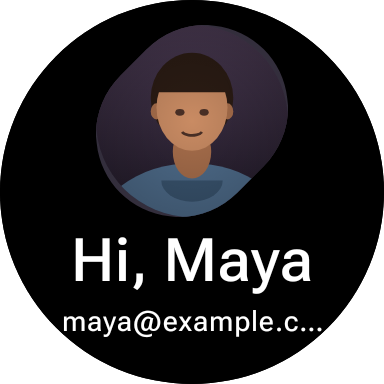
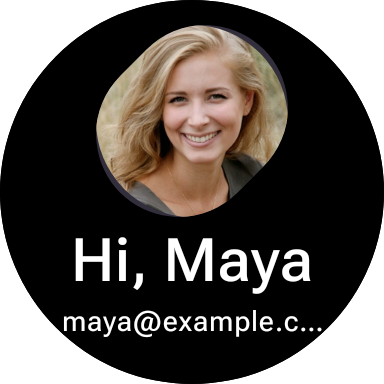
feat: seed the auth accounts with real CC0 photographs
The avatars were drawn: first a gradient, then a generated portrait.
Both answer where the avatar sits and how big it is, and neither answers
the question a reader actually has at `ButtonDefaults.LargeIconSize` —
whether a PHOTOGRAPH survives the slot. Only a photograph answers that.

Two 256x256 crops from cjdowner/interfaces, a pack of 100 avatar images
assembled from community stock photography and released under CC0 1.0:
free for commercial use, modifiable, redistributable, attribution not
required. Given anyway — `docs/THIRD_PARTY_IMAGES.md` records both files,
their source and the originals, so a contributor who finds photographs of
strangers in a design repository can see where they came from.

Chosen to stay distinguishable at 32dp — one light, high-key frame
against one dark, low-key one. Two portraits that resolve to the same
grey blur in the row would fail the account list's whole job while
looking fine in review.

This reverses `CatalogImage`'s "drawn rather than shipped" argument for
exactly one slot, and its KDoc now says so. That argument holds for a
placeholder, where a gradient loses nothing; it does not hold for a human
face, and a CC0 pack settles the licence question in a committed file
rather than leaving it open.

The circular crop stays at the call site, for the reason it was there
before: `SelectAccountScreen` applies no clip (#435), a photograph is a
rectangle, and `Paintable` returns any `Painter` — so `CatalogAvatar`
[…]

Changed region(s): [[0.25, 0.0625, 0.75, 0.5625]]

diff --git a/catalog/src/main/kotlin/ee/schimke/wearm3catalog/CatalogAvatar.kt b/catalog/src/main/kotlin/ee/schimke/wearm3catalog/CatalogAvatar.kt
@@ -1,172 +1,101 @@
 package ee.schimke.wearm3catalog
 
+import androidx.compose.runtime.Composable
+import androidx.compose.runtime.remember
 import androidx.compose.ui.geometry.Offset
 import androidx.compose.ui.geometry.Rect
 import androidx.compose.ui.geometry.Size
-import androidx.compose.ui.graphics.Brush
-import androidx.compose.ui.graphics.Color
 import androidx.compose.ui.graphics.Path
 import androidx.compose.ui.graphics.drawscope.DrawScope
 import androidx.compose.ui.graphics.drawscope.clipPath
+import androidx.compose.ui.graphics.drawscope.translate
 import androidx.compose.ui.graphics.painter.Painter
+import androidx.compose.ui.res.painterResource
+import com.google.android.horologist.images.base.paintable.Paintable
 
 /**
- * A portrait stand-in for the slots that hold a person's photo — the account avatar.
+ * The account photographs the sign-in surfaces seed from.
  *
  * [CatalogArtwork] is the stand-in for *imagery*, and it is a gradient, which is honest for album
- * art and for the kit's app glyph. It is not honest for an avatar: an account row's leading slot
- * holds a FACE, and a reader looking at `Auth/SelectAccountScreen` has to be able to tell whether
- * the component sized, placed and shaped one. A rectangle of colour answers the first two questions
- * and not the third.
+ * art and for the kit's app glyph. It is not honest here: an account row's leading slot holds a
+ * FACE, and a reader looking at `Auth/SelectAccountScreen` has to be able to tell whether the
+ * component sized, placed and shaped one. A rectangle of colour answers the first two questions and
+ * not the third, and a drawn figure answers the third only approximately — at
+ * `ButtonDefaults.LargeIconSize` the question is whether a *photograph* survives the slot, which
+ * only a photograph can answer.
  *
- * ## Drawn, not shipped, and not a photograph
+ * ## Why these two, and what licence they carry
  *
- * This is a **representational drawing** — head, shoulders, hair, a collar — rather than a
- * photograph, and it does not pretend otherwise at any size. Three reasons it is generated here
- * instead of committed as an asset, in descending order of how much they would cost:
- * 1. A committed photograph of a person is a licence question AND a likeness question in front of
- *    every contributor, on a repository whose delivery branch republishes every render nightly.
- * 2. It weighs nothing and renders identically on every publish, which is the same determinism
- *    argument [CatalogImage] makes: a catalog whose history is diffed cannot afford a byte to move
- *    for a reason nobody intended.
- * 3. It scales. The account row draws it at `ButtonDefaults.LargeIconSize` and the confirmation
- *    dialog at 96dp; both come out of the same numbers because every coordinate below is a fraction
- *    of the frame, not a pixel.
+ * Both are real photographs from [inter-faces](https://github.com/cjdowner/interfaces), a pack of
+ * 100 avatar crops assembled from community stock photography and released under
+ * [CC0 1.0](https://creativecommons.org/publicdomain/zero/1.0/) — free for commercial use,
+ * modifiable, redistributable, **attribution not required**. Credited anyway, because a contributor
+ * who finds two photographs of strangers in a design repository deserves to be told where they came
+ * from without having to ask: see
+ * [`docs/THIRD_PARTY_IMAGES.md`](../../../../../../../docs/THIRD_PARTY_IMAGES.md).
  *
- * ## It clips itself, and that is the point
+ * This deliberately reverses the "drawn rather than shipped" reasoning on [CatalogImage], which
+ * argued that a committed photograph puts a licence question in front of every contributor. That
+ * argument holds for a *placeholder*, where a gradient loses nothing. It does not hold for the one
+ * slot whose whole subject is a human face — and a CC0 pack answers the licence question in the
+ * file that records it rather than leaving it open. The two are 256x256 JPEGs, ~45 KB each.
  *
- * Everything is drawn inside a circular clip, so the painter hands the component an image that is
- * **already masked** — which is exactly what a real app does, and exactly what Horologist's own
- * previews and screenshot tests do (their `horologist_avatar_small_*.png` fixtures are pre-rounded
- * PNGs; all four corners decode to `(0, 0, 0, 0)`).
+ * They are chosen to be **distinguishable at 32dp**: a light, high-key frame against a dark,
+ * low-key one. Telling two accounts apart is the account row's entire job, and two portraits that
+ * resolve to the same grey blur at `LargeIconSize` would fail it while looking fine in review.
  *
- * That matters because `SelectAccountScreen` applies no clip of its own
- * ([#435](https://github.com/yschimke/wear-m3-catalog/issues/435)), so an unmasked rectangle lands
- * square in the account row. Masking here is not covering for the library: it is the call site
- * doing what every call site has to do today, and the catalog publishing what an app would actually
- * see. The library's missing clip is reported upstream rather than drawn.
+ * ## The circular crop, and why it belongs here
  *
- * @param background the two-stop ground behind the subject, top to bottom.
- * @param skin the lit side of the face.
- * @param skinShadow the neck and ears, which sit behind the plane of the face.
- * @param hair drawn twice — once behind the head, once as a fringe across the forehead.
- * @param shirt the shoulders, which the circle crops into a band along the bottom.
- * @param shirtShadow the collar's opening under the neck.
- * @param feature eyes and mouth. Deliberately low-contrast: at `LargeIconSize` these are about a
- *   pixel each, and a hard black reads as speckle rather than as a face.
+ * `SelectAccountScreen` draws the account's `avatar` through a bare `Image` with no `clip`, so an
+ * unmasked rectangle — which is exactly what a photograph is, and what a `CoilPaintable` hands it
+ * in production — lands SQUARE in the account row. That is a library gap, reported at
+ * [#435](https://github.com/yschimke/wear-m3-catalog/issues/435).
+ *
+ * What the API gives a caller is the PIXELS: `Paintable` returns any `Painter`, so the mask goes on
+ * here, before the component ever sees the image. That is not covering for the library — it is what
+ * every call site has to do today, and what Horologist's own fixtures do
+ * (`horologist_avatar_small_1` and `_2`, the two the `SelectAccountScreen` preview and screenshot
+ * test pass, are pre-rounded PNGs whose corners decode to `(0, 0, 0, 0)`; `_3`, used only by the
+ * confirmation dialog, is not, because that component clips to its own pill).
+ *
+ * It survives the fix, too: a circle clipped to a circle is unchanged the day #435 lands.
  */
-class CatalogAvatar(
-  private val background: List<Color>,
-  private val skin: Color,
-  private val skinShadow: Color,
-  private val hair: Color,
-  private val shirt: Color,
-  private val shirtShadow: Color,
-  private val feature: Color,
-) : Painter() {
+object CatalogAvatar {
 
-  override val intrinsicSize: Size = Size.Unspecified
+  /** Maya's photograph — light frame, so it reads against a dark row. */
+  val First: Paintable = ResourceAvatar(R.drawable.catalog_avatar_1)
 
-  override fun DrawScope.onDraw() {
-    // Square, centred: the frame is whatever the component asks for, the portrait is not stretched
-    // to it. `SignedInConfirmationDialog` scales its avatar with `ContentScale.FillBounds`, so a
-    // portrait laid out against the frame's own aspect would skew inside a non-square pill.
-    val side = minOf(size.width, size.height)
-    val left = (size.width - side) / 2f
-    val top = (size.height - side) / 2f
+  /** Sam's photograph — dark frame, so the two do not blur into one another at 32dp. */
+  val Second: Paintable = ResourceAvatar(R.drawable.catalog_avatar_2)
 
-    fun at(fx: Float, fy: Float) = Offset(left + side * fx, top + side * fy)
-
-    fun oval(color: Color, cx: Float, cy: Float, rx: Float, ry: Float) =
-      drawOval(color, at(cx - rx, cy - ry), Size(side * rx * 2f, side * ry * 2f))
-
-    clipPath(Path().apply { addOval(Rect(Offset(left, top), Size(side, side))) }) {
-      drawRect(
-        Brush.verticalGradient(background, startY = top, endY = top + side),
-        Offset(left, top),
-        Size(side, side),
-      )
-
-      // Shoulders, wider than the frame so the circle crops them rather than showing their ends.
-      oval(shirt, cx = 0.5f, cy = 1.12f, rx = 0.52f, ry = 0.40f)
-      // The collar's opening: a half-disc under the neck, flat side up.
-      drawArc(
-        shirtShadow,
-        startAngle = 0f,
-        sweepAngle = 180f,
-        useCenter = true,
-        topLeft = at(0.34f, 0.70f),
-        size = Size(side * 0.32f, side * 0.22f),
-      )
-
-      oval(skinShadow, cx = 0.5f, cy = 0.66f, rx = 0.10f, ry = 0.14f) // neck
-      oval(hair, cx = 0.5f, cy = 0.38f, rx = 0.215f, ry = 0.235f) // hair, behind the head
-      oval(skinShadow, cx = 0.315f, cy = 0.45f, rx = 0.030f, ry = 0.042f) // ears
-      oval(skinShadow, cx = 0.685f, cy = 0.45f, rx = 0.030f, ry = 0.042f)
-      oval(skin, cx = 0.5f, cy = 0.43f, rx = 0.185f, ry = 0.225f) // face
-
-      // Fringe: the top half of an oval, filled to its centre, sitting across the forehead.
-      drawArc(
-        hair,
-        startAngle = 180f,
-        sweepAngle = 180f,
-        useCenter = true,
-        topLeft = at(0.30f, 0.20f),
-        size = Size(side * 0.40f, side * 0.30f),
-      )
-
-      oval(feature, cx = 0.437f, cy = 0.455f, rx = 0.024f, ry = 0.018f) // eyes
-      oval(feature, cx = 0.563f, cy = 0.455f, rx = 0.024f, ry = 0.018f)
-      drawArc(
-        feature,
-        startAngle = 20f,
-        sweepAngle = 140f,
-        useCenter = false,
-        topLeft = at(0.445f, 0.520f),
-        size = Size(side * 0.110f, side * 0.055f),
-        style = androidx.compose.ui.graphics.drawscope.Stroke(width = side * 0.014f),
-      )
-
-      // A vignette, which is what stops the whole thing reading as a flat sticker.
-      drawRect(
-        Brush.radialGradient(
-          colors = listOf(Color.Transparent, Color.Black.copy(alpha = 0.22f)),
-          center = at(0.5f, 0.5f),
-          radius = side * 0.52f,
-        ),
-        Offset(left, top),
-        Size(side, side),
-      )
+  private class ResourceAvatar(private val resId: Int) : Paintable {
+    @Composable
+    override fun rememberPainter(): Painter {
+      val source = painterResource(resId)
+      return remember(source) { CircleCropPainter(source) }
     }
   }
 
-  companion object {
-    /**
-     * The two accounts the sign-in surfaces seed from, drawn as two different people.
-     *
-     * One portrait twice would read as a rendering bug in a two-row account list — the row's whole
-     * job is telling accounts apart — so the palettes differ in every band, not only in hue.
-     */
-    val First =
-      CatalogAvatar(
-        background = listOf(Color(0xFF4A3A52), Color(0xFF211A28)),
-        skin = Color(0xFFC98B63),
-        skinShadow = Color(0xFFA96F4C),
-        hair = Color(0xFF2B1C14),
-        shirt = Color(0xFF4F6D8C),
-        shirtShadow = Color(0xFF3A5570),
-        feature = Color(0xFF4A3026),
-      )
+  /**
+   * Draws [source] into the largest centred circle the frame allows.
+   *
+   * Centred and square rather than stretched to the frame: `SignedInConfirmationDialog` scales its
+   * avatar with `ContentScale.FillBounds`, so a portrait laid out against a non-square frame would
+   * come out skewed — a face is the one subject where that is unmissable.
+   */
+  private class CircleCropPainter(private val source: Painter) : Painter() {
 
-    val Second =
-      CatalogAvatar(
-        background = listOf(Color(0xFF2E4046), Color(0xFF152125)),
-        skin = Color(0xFFE0B48D),
-        skinShadow = Color(0xFFC08F6A),
-        hair = Color(0xFF6B4A2F),
-        shirt = Color(0xFF7A5A6E),
-        shirtShadow = Color(0xFF5C4253),
-        feature = Color(0xFF5A4232),
-      )
+    // Unspecified, so the component's own sizing wins. An intrinsic size here would fight
+    // `Modifier.size(LargeIconSize)` in the row and `fillMaxSize()` in the dialog.
+    override val intrinsicSize: Size = Size.Unspecified
+
+    override fun DrawScope.onDraw() {
+      val side = minOf(size.width, size.height)
+      val left = (size.width - side) / 2f
+      val top = (size.height - side) / 2f
+      clipPath(Path().apply { addOval(Rect(Offset(left, top), Size(side, side))) }) {
+        translate(left, top) { with(source) { draw(Size(side, side)) } }
+      }
+    }
   }
 }

diff --git a/catalog/src/main/kotlin/ee/schimke/wearm3catalog/HorologistSamples.kt b/catalog/src/main/kotlin/ee/schimke/wearm3catalog/HorologistSamples.kt
@@ -60,11 +60,12 @@ object HorologistSamples {
     )
 
   /**
-   * The stand-in avatars, as the type Horologist takes.
+   * The accounts `SelectAccountScreen` lists. Example.com, which is reserved for exactly this.
    *
    * `AccountUiModel.avatar` is a [Paintable] for the same reason the artwork is: production passes
    * a `CoilPaintable` resolving the account's photo through an `ImageLoader`, which a catalog
-   * render must not do.
+   * render must not do. [CatalogAvatar] hands over the same SHAPE of thing — a real photograph,
+   * already masked — from a committed CC0 resource instead.
    *
    * **Left null it is not merely blank — it publishes a different code path.** Both auth surfaces
    * branch on it, and the `defaultAvatar` branch is the one for an account with no photo:
@@ -75,30 +76,20 @@ object HorologistSamples {
    * pill at `ContentScale.FillBounds`. A catalog cell showing the fallback claims to draw the
    * sign-in flow and draws its empty state.
    *
-   * So the accounts carry one each, and they carry a FACE — see [CatalogAvatar] for why the
-   * gradient that stands in for album art does not stand in for a person, why it is drawn rather
-   * than photographed, and why it masks itself into a circle before the component ever sees it.
-   */
-  class Avatar(private val portrait: Painter) : Paintable {
-    @Composable override fun rememberPainter(): Painter = portrait
-  }
-
-  /**
-   * The accounts `SelectAccountScreen` lists. Example.com, which is reserved for exactly this.
-   *
-   * Two different portraits, because telling two accounts apart is the row's entire job.
+   * Two different photographs, because telling two accounts apart is the row's entire job — and two
+   * that stay distinct at 32dp, not only at review size. See [CatalogAvatar].
    */
   val accounts: List<AccountUiModel> =
     listOf(
       AccountUiModel(
         email = "maya@example.com",
         name = "Maya",
-        avatar = Avatar(CatalogAvatar.First),
+        avatar = CatalogAvatar.First,
       ),
       AccountUiModel(
         email = "sam@example.com",
         name = "Sam",
-        avatar = Avatar(CatalogAvatar.Second),
+        avatar = CatalogAvatar.Second,
       ),
     )
 

diff --git a/catalog/src/main/kotlin/ee/schimke/wearm3catalog/CatalogImage.kt b/catalog/src/main/kotlin/ee/schimke/wearm3catalog/CatalogImage.kt
@@ -47,9 +47,13 @@ import androidx.compose.ui.graphics.painter.Painter
  *
  * ## Why drawn rather than shipped
  *
- * A committed photograph would be the only asset in the repository and would put a licence question
- * in front of every contributor. This weighs nothing and renders identically on every publish,
- * which a catalog whose delivery branch is diffed over time needs.
+ * A committed photograph would put a licence question in front of every contributor. This weighs
+ * nothing and renders identically on every publish, which a catalog whose delivery branch is diffed
+ * over time needs.
+ *
+ * That reasoning holds wherever the picture is a PLACEHOLDER, which is everything on this page. The
+ * one slot it does not cover is a human face — see [CatalogAvatar], which ships two CC0 photographs
+ * and records their licence in `docs/THIRD_PARTY_IMAGES.md`.
  *
  * **Use this only where the kit's cell is itself empty.** Where the kit draws real content — the
  * app avatar, media artwork — [CatalogArtwork] is the stand-in, and where the content is a PERSON —

diff --git a/docs/THIRD_PARTY_IMAGES.md b/docs/THIRD_PARTY_IMAGES.md
@@ -1,0 +1,44 @@
+# Third-party images
+
+Everything this catalog draws is generated in code — see
+[`CatalogImage.kt`](../catalog/src/main/kotlin/ee/schimke/wearm3catalog/CatalogImage.kt) for why —
+with one deliberate exception, recorded here.
+
+## Account avatars
+
+| File | Source | Original |
+| --- | --- | --- |
+| [`catalog/src/main/res/drawable-nodpi/catalog_avatar_1.jpg`](../catalog/src/main/res/drawable-nodpi/catalog_avatar_1.jpg) | [cjdowner/interfaces](https://github.com/cjdowner/interfaces) `256 x 256/009.jpg` | [pexels.com/photo/38554](https://www.pexels.com/photo/woman-in-black-scoop-neck-shirt-smiling-38554/) |
+| [`catalog/src/main/res/drawable-nodpi/catalog_avatar_2.jpg`](../catalog/src/main/res/drawable-nodpi/catalog_avatar_2.jpg) | [cjdowner/interfaces](https://github.com/cjdowner/interfaces) `256 x 256/014.jpg` | [pexels.com/photo/50855](https://www.pexels.com/photo/person-man-confident-business-50855/) |
+
+**Licence: [CC0 1.0 Universal](https://creativecommons.org/publicdomain/zero/1.0/)** (public domain
+dedication). The pack states it plainly: free for personal and commercial use, modifiable, copyable,
+redistributable, and **attribution is not required**. It is given anyway — a contributor who finds
+photographs of strangers in a design repository should be able to see where they came from without
+having to ask.
+
+The one condition CC0 does not lift is the one the pack names: identifiable people must not be shown
+in a bad light, or in a way they would find offensive. These are seed data for a sign-in screen —
+`Maya` and `Sam` at `example.com` — which is as neutral a use as the pack has.
+
+Both were copied unmodified from the pack's `256 x 256` set (~45 KB each). They are cropped to a
+circle at draw time rather than in the file, by
+[`CatalogAvatar`](../catalog/src/main/kotlin/ee/schimke/wearm3catalog/CatalogAvatar.kt) — see its
+KDoc, and [#435](https://github.com/yschimke/wear-m3-catalog/issues/435), for why the mask belongs at
+the call site.
+
+## Why this is the only exception
+
+[`CatalogImage`](../catalog/src/main/kotlin/ee/schimke/wearm3catalog/CatalogImage.kt)'s KDoc argues
+for drawing rather than shipping: a committed photograph puts a licence question in front of every
+contributor, and a drawn fill weighs nothing and renders identically on every publish, which a
+catalog whose delivery branch is diffed nightly needs.
+
+That argument holds wherever the picture is a *placeholder* — an empty kit cell, album art, an app
+glyph — because a gradient loses nothing there. It does not hold for the one slot whose subject is a
+human face. At `ButtonDefaults.LargeIconSize` the question a reader is asking is whether a
+**photograph** survives the slot, and only a photograph answers it. A CC0 pack settles the licence
+question in this file rather than leaving it open, which is the cost the original argument was
+avoiding.
+
+Adding another image asset means adding a row here, with its licence.
